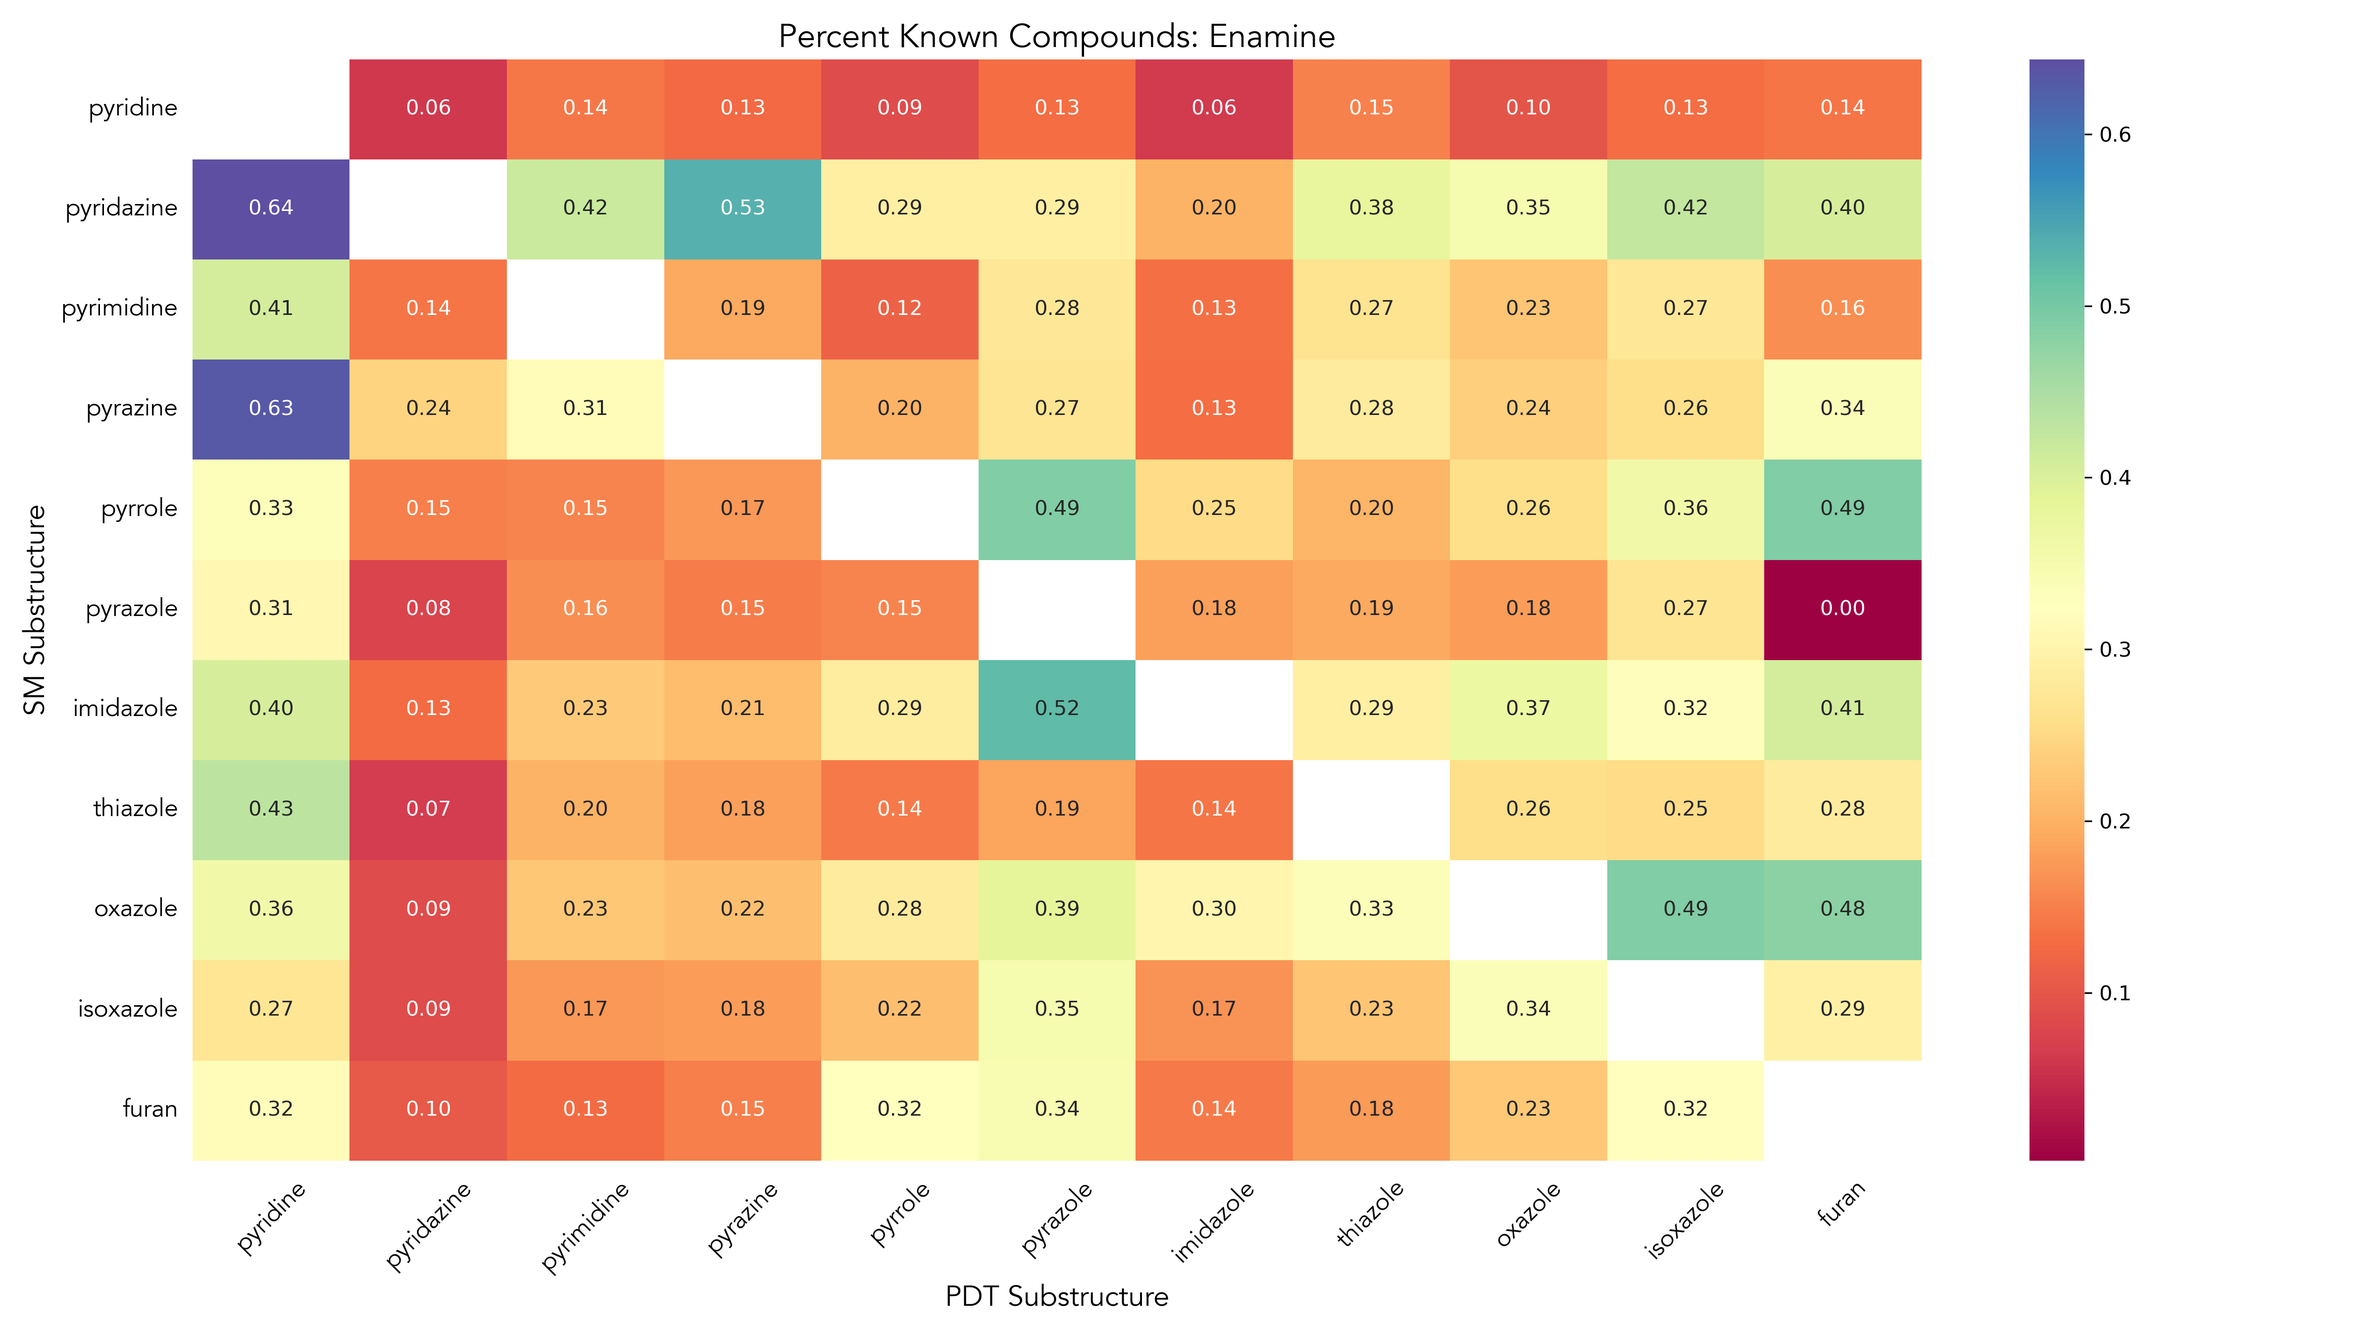
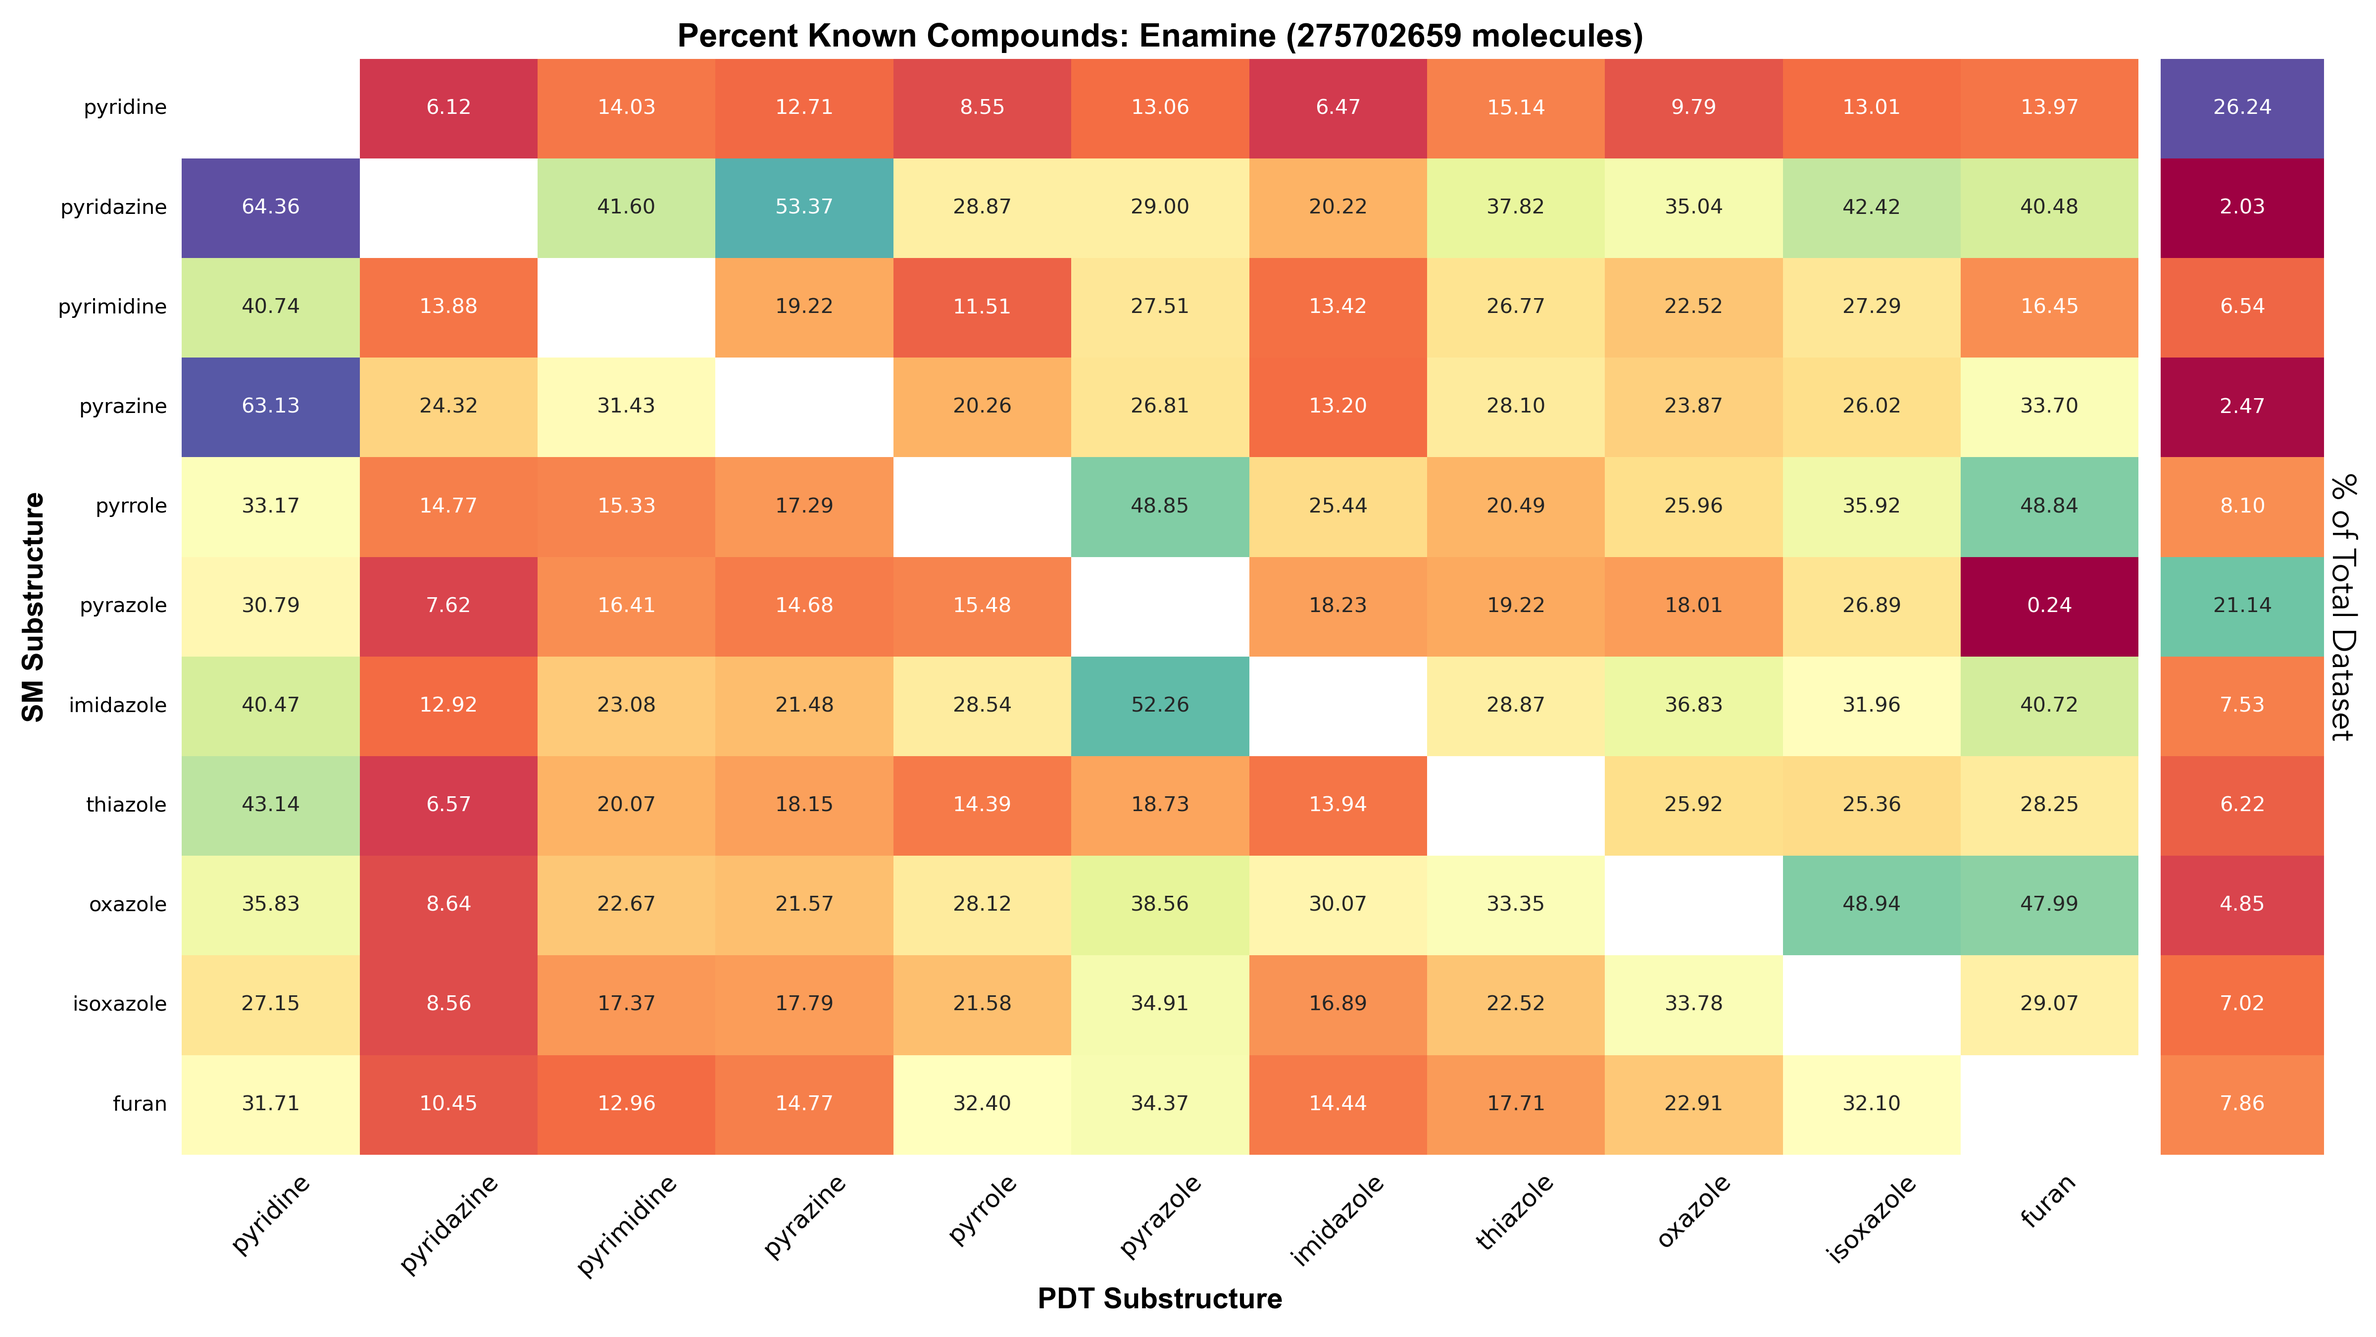
added additional data

diff --git a/databases/enamine_database/heatmaps.py b/databases/enamine_database/heatmaps.py
@@ -255,7 +255,7 @@ def count_symmetric(frameworks, symmetric_filename):
     return symmetric_count_arr, symmetric_count_df
 
 
-def GenerateHeatmap(dataframe, title, filename):
+def GenerateHeatmap(dataframe, title, filename, sm_df):
     # Define figure size
     plt.figure(figsize=(16, 9))
 
@@ -263,30 +263,52 @@ def GenerateHeatmap(dataframe, title, filename):
     # see https://seaborn.pydata.org/tutorial/color_palettes.html for more info
     cmap = sns.color_palette("Spectral", as_cmap=True)
 
-    # Create heatmap using the custom colormap
+    # Create a grid with different widths for subplots
+    gs = plt.GridSpec(1, 2, width_ratios=[12, 1])
+
+    # Create heatmap of results
+    ax1 = plt.subplot(gs[0])
     sns.heatmap(dataframe, 
                 annot=True,
                 cmap=cmap,
                 linewidths=0, 
                 fmt=".2f", 
-                annot_kws={"size": 10})
+                annot_kws={"size": 10},
+                cbar=False,
+                cbar_kws={'orientation': 'horizontal'})  # Place color bar at the bottom if cbar=True
 
     # define font
-    fontfamily = 'Avenir'
+    fontfamily = 'Arial'
 
     # Remove ticks on both axes
-    plt.tick_params(axis='both', which='both', bottom=False, top=False, left=False, right=False)
+    ax1.tick_params(axis='both', which='both', bottom=False, top=False, left=False, right=False)
 
-    # Add title
-    plt.title(title, fontsize=16, fontweight="bold", fontfamily=fontfamily)
+    # Add title and adjust labels
+    ax1.set_title(title, fontsize=16, fontweight="bold", fontfamily=fontfamily)
+    ax1.set_xlabel('PDT Substructure', fontsize=14, fontweight="bold", fontfamily=fontfamily)
+    ax1.set_ylabel('SM Substructure', fontsize=14, fontweight="bold", fontfamily=fontfamily)
+    ax1.tick_params(axis='x', rotation=45, labelsize=12)
+
+    # Create SM count heatmap column plot
+    ax2 = plt.subplot(gs[1])
+    sns.heatmap(sm_df,
+                annot=True,
+                cmap=cmap,
+                linewidths=0,
+                fmt=".2f",
+                annot_kws={"size": 10},
+                cbar=False)
     
-    # Rotate the x-axis and y-axis labels for better readability
-    plt.xticks(rotation=45, fontsize=12, fontweight="bold", fontfamily=fontfamily)
-    plt.yticks(rotation=0, fontsize=12, fontweight="bold", fontfamily=fontfamily)
+    # Remove ticks and labels on both axes for the second heatmap
+    ax2.tick_params(axis='both', which='both', bottom=False, top=False, left=False, right=False, labelleft=False, labelbottom=False)
 
-    # Add labels to the x-axis and y-axis
-    plt.xlabel('PDT Substructure', fontsize=14, fontweight="bold", fontfamily=fontfamily)
-    plt.ylabel('SM Substructure', fontsize=14, fontweight="bold", fontfamily=fontfamily)
+    '''
+    # Add title to the second heatmap
+    ax2.set_title('% of Total Dataset', fontsize=16, fontweight="bold", fontfamily=fontfamily)
+    '''
+
+    # Manually add a rotated title on the right side of the second heatmap
+    ax2.text(1.1, 0.5, '% of Total Dataset', fontsize=16, fontweight="bold", fontfamily='Avenir', rotation=-90, va='center', ha='center', transform=ax2.transAxes)
 
     # Adjust the layout to prevent cutoff of labels
     plt.tight_layout()
@@ -334,20 +356,36 @@ count_symmetric_results = count_symmetric(frameworks, symmetric_filename)
 symmetric_count_arr = count_symmetric_results[0]
 symmetric_count_df = count_symmetric_results[1]
 
+# counts total number of molecules
+# by summing first column of array with all of the SM counts
+total_molecule_count = np.sum(sm_count_arr[:, 0])
+
+# makes a single column of SM counts
+sm_column = (sm_count_arr[:,0] / total_molecule_count) * 100
+sm_column_df = pd.DataFrame(sm_column,
+                index = None, 
+                columns = None)
+
 # specify which database you're generating heatmaps for here
 database = 'Enamine'
 
 # %new dataframe
-percent_new_arr = new_count_arr / unique_count_arr
+percent_new_arr = (new_count_arr / unique_count_arr) * 100
 percent_new_df = pd.DataFrame(percent_new_arr,
                               index = frameworks,
                               columns = frameworks)
-GenerateHeatmap(percent_new_df, f'Percent Unknown Compounds: {database}', filename = f'percent_new_count_{database}.png')
+GenerateHeatmap(percent_new_df,
+                f'Percent Unknown Compounds: {database} ({total_molecule_count} molecules)', 
+                f'percent_new_count_{database}.png',
+                sm_column_df)
 
 # %common dataframe
-percent_common_arr = common_count_arr / unique_count_arr
+percent_common_arr = (common_count_arr / unique_count_arr) * 100
 percent_common_df = pd.DataFrame(percent_common_arr,
                               index = frameworks,
                               columns = frameworks)
-GenerateHeatmap(percent_common_df, f'Percent Known Compounds: {database}', filename = f'percent_common_count_{database}.png')
+GenerateHeatmap(percent_common_df, 
+                f'Percent Known Compounds: {database} ({total_molecule_count} molecules)', 
+                f'percent_common_count_{database}.png',
+                sm_column_df)
 

diff --git a/databases/enamine_1percent_database/heatmaps.py b/databases/enamine_1percent_database/heatmaps.py
@@ -255,7 +255,7 @@ def count_symmetric(frameworks, symmetric_filename):
     return symmetric_count_arr, symmetric_count_df
 
 
-def GenerateHeatmap(dataframe, title, filename):
+def GenerateHeatmap(dataframe, title, filename, sm_df):
     # Define figure size
     plt.figure(figsize=(16, 9))
 
@@ -263,30 +263,51 @@ def GenerateHeatmap(dataframe, title, filename):
     # see https://seaborn.pydata.org/tutorial/color_palettes.html for more info
     cmap = sns.color_palette("Spectral", as_cmap=True)
 
-    # Create heatmap using the custom colormap
+    # Create a grid with different widths for subplots
+    gs = plt.GridSpec(1, 2, width_ratios=[12, 1])
+
+    # Create heatmap of results
+    ax1 = plt.subplot(gs[0])
     sns.heatmap(dataframe, 
                 annot=True,
                 cmap=cmap,
                 linewidths=0, 
                 fmt=".2f", 
-                annot_kws={"size": 10})
+                annot_kws={"size": 10},
+                cbar=False)
 
     # define font
-    fontfamily = 'Avenir'
+    fontfamily = 'Arial'
 
     # Remove ticks on both axes
-    plt.tick_params(axis='both', which='both', bottom=False, top=False, left=False, right=False)
+    ax1.tick_params(axis='both', which='both', bottom=False, top=False, left=False, right=False)
 
-    # Add title
-    plt.title(title, fontsize=16, fontweight="bold", fontfamily=fontfamily)
+    # Add title and adjust labels
+    ax1.set_title(title, fontsize=16, fontweight="bold", fontfamily=fontfamily)
+    ax1.set_xlabel('PDT Substructure', fontsize=14, fontweight="bold", fontfamily=fontfamily)
+    ax1.set_ylabel('SM Substructure', fontsize=14, fontweight="bold", fontfamily=fontfamily)
+    ax1.tick_params(axis='x', rotation=45, labelsize=12)
+
+    # Create SM count heatmap column plot
+    ax2 = plt.subplot(gs[1])
+    sns.heatmap(sm_df,
+                annot=True,
+                cmap=cmap,
+                linewidths=0,
+                fmt=".2f",
+                annot_kws={"size": 10},
+                cbar=False)
     
-    # Rotate the x-axis and y-axis labels for better readability
-    plt.xticks(rotation=45, fontsize=12, fontweight="bold", fontfamily=fontfamily)
-    plt.yticks(rotation=0, fontsize=12, fontweight="bold", fontfamily=fontfamily)
+    # Remove ticks and labels on both axes for the second heatmap
+    ax2.tick_params(axis='both', which='both', bottom=False, top=False, left=False, right=False, labelleft=False, labelbottom=False)
 
-    # Add labels to the x-axis and y-axis
-    plt.xlabel('PDT Substructure', fontsize=14, fontweight="bold", fontfamily=fontfamily)
-    plt.ylabel('SM Substructure', fontsize=14, fontweight="bold", fontfamily=fontfamily)
+    '''
+    # Add title to the second heatmap
+    ax2.set_title('% of Total Dataset', fontsize=16, fontweight="bold", fontfamily=fontfamily)
+    '''
+
+    # Manually add a rotated title on the right side of the second heatmap
+    ax2.text(1.1, 0.5, '% of Total Dataset', fontsize=16, fontweight="bold", fontfamily='Avenir', rotation=-90, va='center', ha='center', transform=ax2.transAxes)
 
     # Adjust the layout to prevent cutoff of labels
     plt.tight_layout()
@@ -334,20 +355,36 @@ count_symmetric_results = count_symmetric(frameworks, symmetric_filename)
 symmetric_count_arr = count_symmetric_results[0]
 symmetric_count_df = count_symmetric_results[1]
 
+# counts total number of molecules
+# by summing first column of array with all of the SM counts
+total_molecule_count = np.sum(sm_count_arr[:, 0])
+
+# makes a single column of SM counts
+sm_column = (sm_count_arr[:,0] / total_molecule_count) * 100
+sm_column_df = pd.DataFrame(sm_column,
+                index = None, 
+                columns = None)
+
 # specify which database you're generating heatmaps for here
-database = 'Enamine 1%'
+database = '1%_Enamine'
 
 # %new dataframe
-percent_new_arr = new_count_arr / unique_count_arr
+percent_new_arr = (new_count_arr / unique_count_arr) * 100
 percent_new_df = pd.DataFrame(percent_new_arr,
                               index = frameworks,
                               columns = frameworks)
-GenerateHeatmap(percent_new_df, f'Percent Unknown Compounds: {database}', filename = f'percent_new_count_{database}.png')
+GenerateHeatmap(percent_new_df,
+                f'Percent Unknown Compounds: {database} ({total_molecule_count} molecules)', 
+                f'percent_new_count_{database}.png',
+                sm_column_df)
 
 # %common dataframe
-percent_common_arr = common_count_arr / unique_count_arr
+percent_common_arr = (common_count_arr / unique_count_arr) * 100
 percent_common_df = pd.DataFrame(percent_common_arr,
                               index = frameworks,
                               columns = frameworks)
-GenerateHeatmap(percent_common_df, f'Percent Known Compounds: {database}', filename = f'percent_common_count_{database}.png')
+GenerateHeatmap(percent_common_df, 
+                f'Percent Known Compounds: {database} ({total_molecule_count} molecules)', 
+                f'percent_common_count_{database}.png',
+                sm_column_df)
 

diff --git a/databases/mcule_database/heatmaps.py b/databases/mcule_database/heatmaps.py
@@ -255,7 +255,7 @@ def count_symmetric(frameworks, symmetric_filename):
     return symmetric_count_arr, symmetric_count_df
 
 
-def GenerateHeatmap(dataframe, title, filename):
+def GenerateHeatmap(dataframe, title, filename, sm_df):
     # Define figure size
     plt.figure(figsize=(16, 9))
 
@@ -263,30 +263,51 @@ def GenerateHeatmap(dataframe, title, filename):
     # see https://seaborn.pydata.org/tutorial/color_palettes.html for more info
     cmap = sns.color_palette("Spectral", as_cmap=True)
 
-    # Create heatmap using the custom colormap
+    # Create a grid with different widths for subplots
+    gs = plt.GridSpec(1, 2, width_ratios=[12, 1])
+
+    # Create heatmap of results
+    ax1 = plt.subplot(gs[0])
     sns.heatmap(dataframe, 
                 annot=True,
                 cmap=cmap,
                 linewidths=0, 
                 fmt=".2f", 
-                annot_kws={"size": 10})
+                annot_kws={"size": 10},
+                cbar=False)
 
     # define font
-    fontfamily = 'Avenir'
+    fontfamily = 'Arial'
 
     # Remove ticks on both axes
-    plt.tick_params(axis='both', which='both', bottom=False, top=False, left=False, right=False)
+    ax1.tick_params(axis='both', which='both', bottom=False, top=False, left=False, right=False)
 
-    # Add title
-    plt.title(title, fontsize=16, fontweight="bold", fontfamily=fontfamily)
+    # Add title and adjust labels
+    ax1.set_title(title, fontsize=16, fontweight="bold", fontfamily=fontfamily)
+    ax1.set_xlabel('PDT Substructure', fontsize=14, fontweight="bold", fontfamily=fontfamily)
+    ax1.set_ylabel('SM Substructure', fontsize=14, fontweight="bold", fontfamily=fontfamily)
+    ax1.tick_params(axis='x', rotation=45, labelsize=12)
+
+    # Create SM count heatmap column plot
+    ax2 = plt.subplot(gs[1])
+    sns.heatmap(sm_df,
+                annot=True,
+                cmap=cmap,
+                linewidths=0,
+                fmt=".2f",
+                annot_kws={"size": 10},
+                cbar=False)
     
-    # Rotate the x-axis and y-axis labels for better readability
-    plt.xticks(rotation=45, fontsize=12, fontweight="bold", fontfamily=fontfamily)
-    plt.yticks(rotation=0, fontsize=12, fontweight="bold", fontfamily=fontfamily)
+    # Remove ticks and labels on both axes for the second heatmap
+    ax2.tick_params(axis='both', which='both', bottom=False, top=False, left=False, right=False, labelleft=False, labelbottom=False)
 
-    # Add labels to the x-axis and y-axis
-    plt.xlabel('PDT Substructure', fontsize=14, fontweight="bold", fontfamily=fontfamily)
-    plt.ylabel('SM Substructure', fontsize=14, fontweight="bold", fontfamily=fontfamily)
+    '''
+    # Add title to the second heatmap
+    ax2.set_title('% of Total Dataset', fontsize=16, fontweight="bold", fontfamily=fontfamily)
+    '''
+
+    # Manually add a rotated title on the right side of the second heatmap
+    ax2.text(1.1, 0.5, '% of Total Dataset', fontsize=16, fontweight="bold", fontfamily='Avenir', rotation=-90, va='center', ha='center', transform=ax2.transAxes)
 
     # Adjust the layout to prevent cutoff of labels
     plt.tight_layout()
@@ -334,20 +355,36 @@ count_symmetric_results = count_symmetric(frameworks, symmetric_filename)
 symmetric_count_arr = count_symmetric_results[0]
 symmetric_count_df = count_symmetric_results[1]
 
+# counts total number of molecules
+# by summing first column of array with all of the SM counts
+total_molecule_count = np.sum(sm_count_arr[:, 0])
+
+# makes a single column of SM counts
+sm_column = (sm_count_arr[:,0] / total_molecule_count) * 100
+sm_column_df = pd.DataFrame(sm_column,
+                index = None, 
+                columns = None)
+
 # specify which database you're generating heatmaps for here
 database = 'mCule'
 
 # %new dataframe
-percent_new_arr = new_count_arr / unique_count_arr
+percent_new_arr = (new_count_arr / unique_count_arr) * 100
 percent_new_df = pd.DataFrame(percent_new_arr,
                               index = frameworks,
                               columns = frameworks)
-GenerateHeatmap(percent_new_df, f'Percent Unknown Compounds: {database}', filename = f'percent_new_count_{database}.png')
+GenerateHeatmap(percent_new_df,
+                f'Percent Unknown Compounds: {database} ({total_molecule_count} molecules)', 
+                f'percent_new_count_{database}.png',
+                sm_column_df)
 
 # %common dataframe
-percent_common_arr = common_count_arr / unique_count_arr
+percent_common_arr = (common_count_arr / unique_count_arr) * 100
 percent_common_df = pd.DataFrame(percent_common_arr,
                               index = frameworks,
                               columns = frameworks)
-GenerateHeatmap(percent_common_df, f'Percent Known Compounds: {database}', filename = f'percent_common_count_{database}.png')
+GenerateHeatmap(percent_common_df, 
+                f'Percent Known Compounds: {database} ({total_molecule_count} molecules)', 
+                f'percent_common_count_{database}.png',
+                sm_column_df)
 
